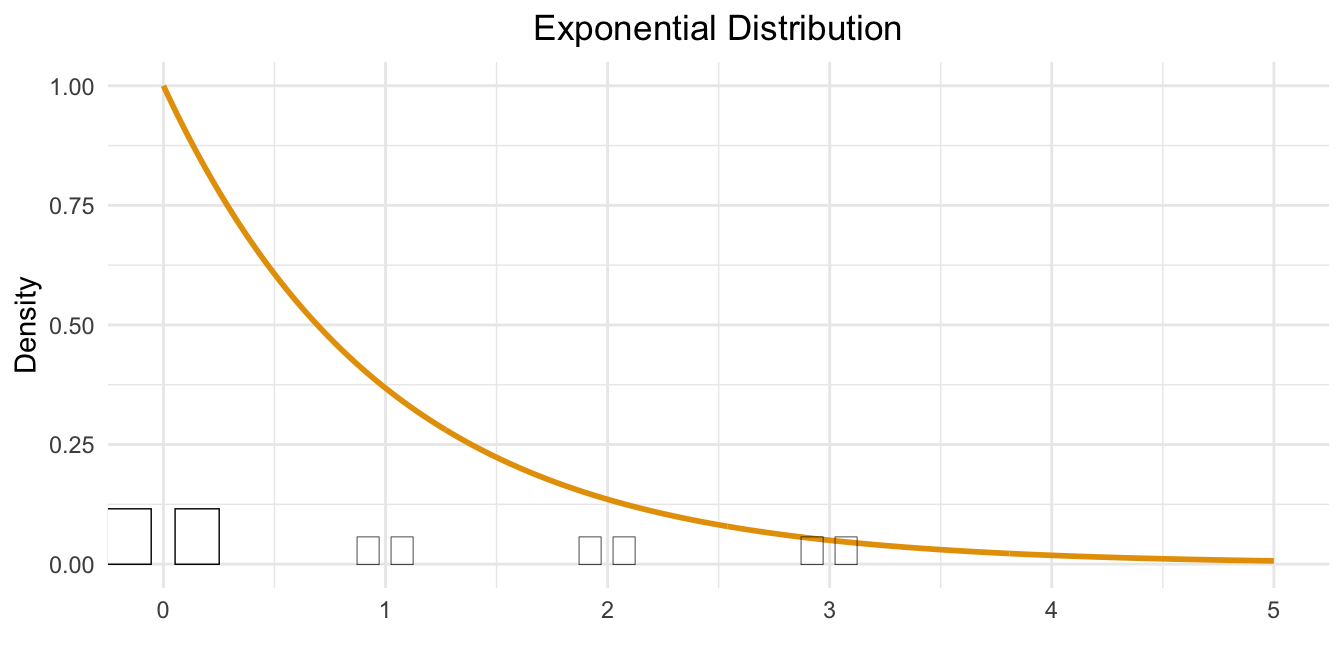
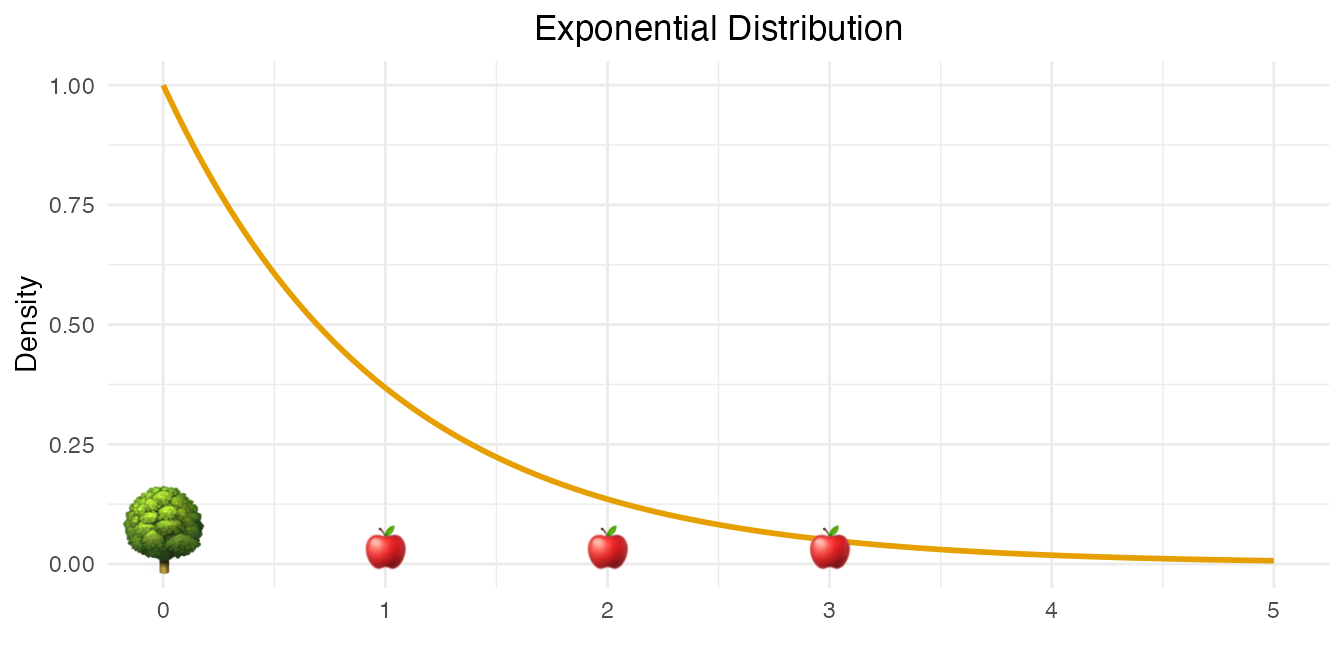
äpfel nciht weit vom Stamm

diff --git a/docs/0800-gauss.html b/docs/0800-gauss.html
@@ -579,7 +579,7 @@ Wichtig
 </div>
 </div>
 <p><a href="https://raw.githubusercontent.com/sebastiansauer/2021-wise/main/Data/Howell1a.csv">Datenquelle</a></p>
[2 lines of base64/hex data omitted]
       const downloadURL = window.URL.createObjectURL(blob);
       const a = document.createElement('a');
       document.body.appendChild(a);
@@ -587,7 +587,7 @@ Wichtig
       a.download = 'Howell1a.csv'; a.click();
       window.URL.revokeObjectURL(downloadURL);
       document.body.removeChild(a);
-        });"><button class="btn btn-default downloadthis  " id="dnldts57156"><i class="bi bi-download"></i> Download </button></a></p>
+        });"><button class="btn btn-default downloadthis  " id="dnldts24113"><i class="bi bi-download"></i> Download </button></a></p>
 </section>
 <section id="einstieg" class="level3" data-number="7.1.7">
 <h3 data-number="7.1.7" class="anchored" data-anchor-id="einstieg"><span class="header-section-number">7.1.7</span> Einstieg</h3>
@@ -1266,7 +1266,7 @@ Hinweis
 <img src="0800-gauss_files/figure-html/fig-exp-1.png" class="img-fluid quarto-figure quarto-figure-center figure-img" style="width:75.0%">
 </div>
 <figcaption class="quarto-float-caption-bottom quarto-float-caption quarto-float-fig" id="fig-exp-caption-0ceaefa1-69ba-4598-a22c-09a6ac19f8ca">
-Abbildung&nbsp;7.3: Die Exponentialverteilung: Die meisten Äpfel fallen nicht weit vom Baum …
+Abbildung&nbsp;7.3: Die Exponentialverteilung: Die meisten Äpfel fallen nicht weit vom Stamm …
 </figcaption>
 </figure>
 </div>
